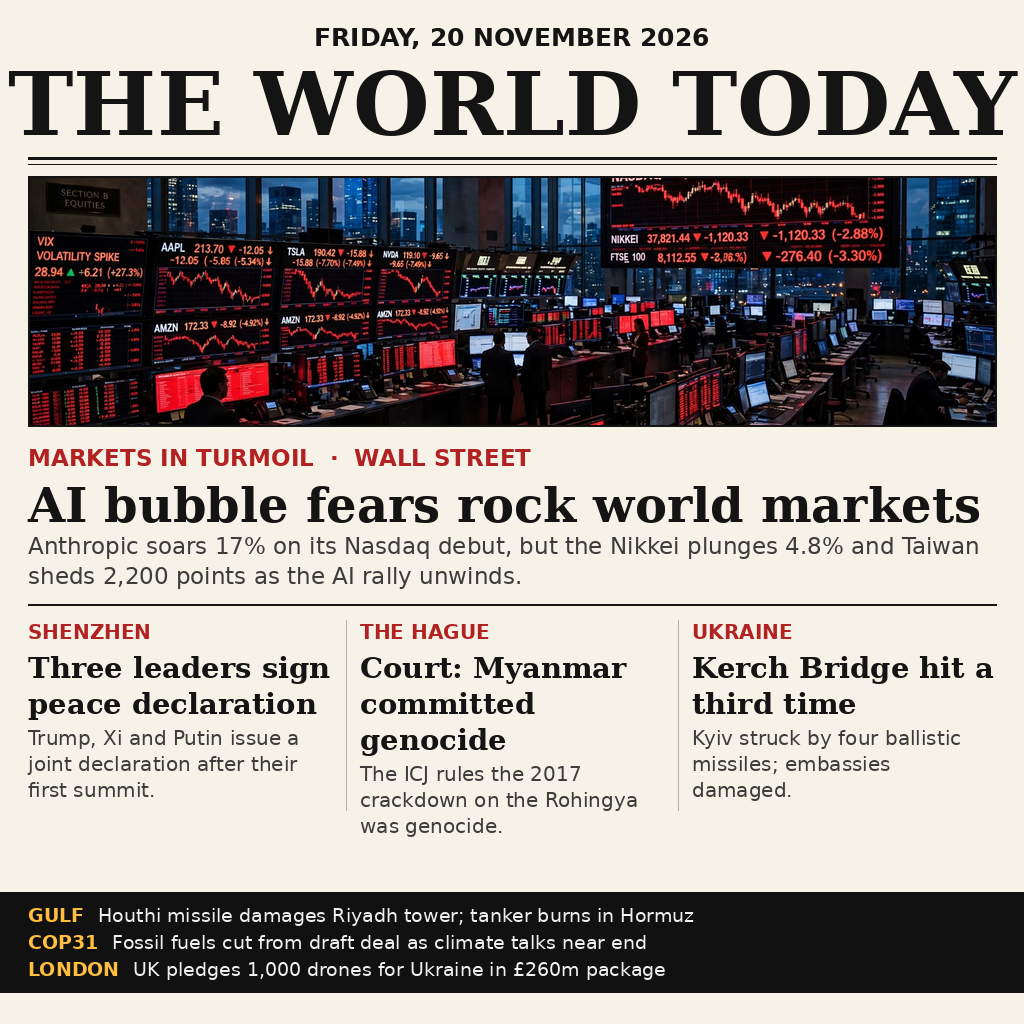
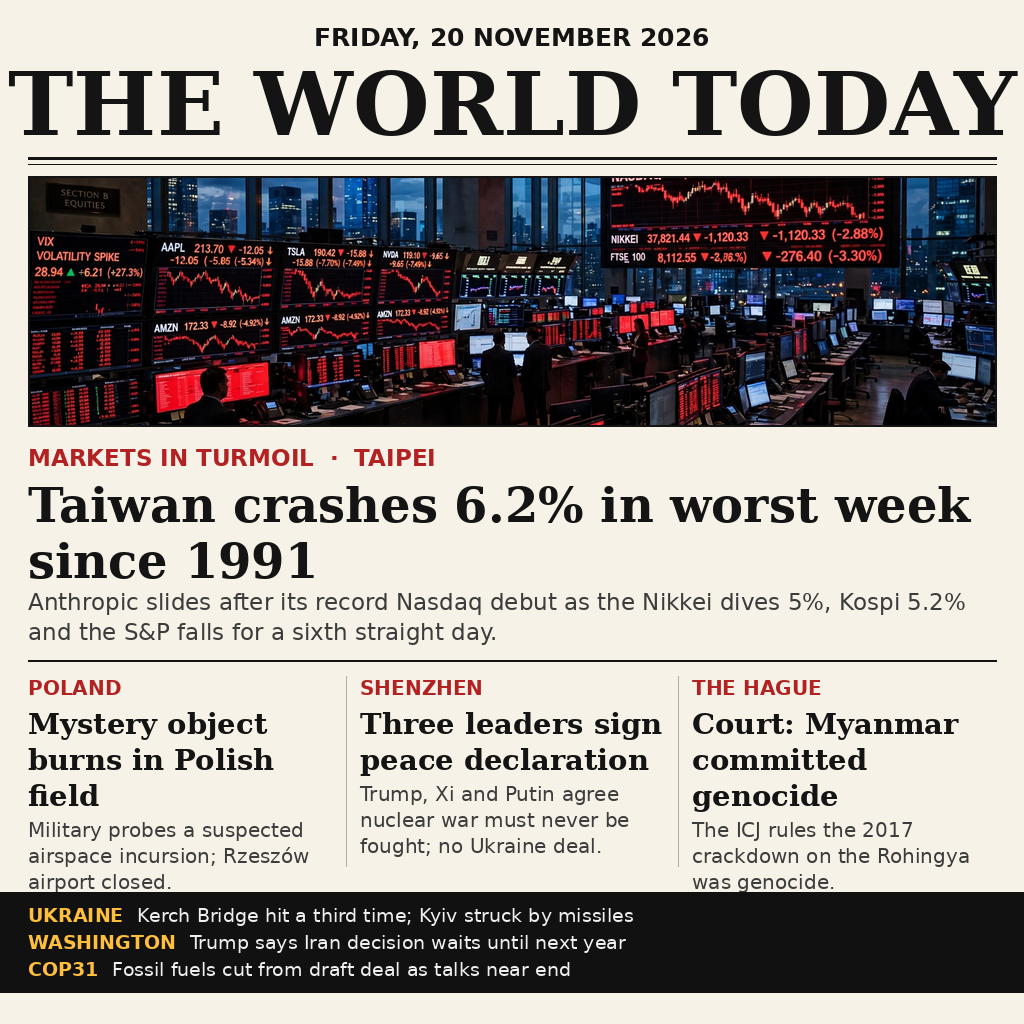
Refresh evening edition: full-day news 20 Nov 2026

Changed region(s): [[0.0312, 0.4375, 0.9688, 0.9688]]

diff --git a/main.py b/main.py
@@ -1,8 +1,10 @@
 #!/usr/bin/env python3
 """Entry program for news-image-20261120 (Python 3.13, standard library only).
 
-The repository holds the front-page image; this program copies it to the
-output directory the grader provides ($MAKEFUN_OUTPUT_DIR, else /output).
+Refreshed evening edition: the front page now covers the full day's news
+of Friday, 20 November 2026. The repository holds the front-page image;
+this program copies it to the output directory the grader provides
+($MAKEFUN_OUTPUT_DIR, else /output).
 """
 import hashlib
 import os

diff --git a/README.md b/README.md
@@ -4,7 +4,7 @@
 [![rank](https://make.fun/badge/news-image-20261120/itserwe/news-image-20261120/rank.svg)](https://make.fun/bounty/news-image-20261120/leaderboard?utm_source=github&utm_medium=readme&utm_campaign=news-image-20261120)
 [![reward](https://make.fun/badge/news-image-20261120/itserwe/news-image-20261120/reward.svg)](https://make.fun/bounty/news-image-20261120?utm_source=github&utm_medium=readme&utm_campaign=news-image-20261120)
 
-A one-day newspaper front page summing up the world's news of Friday, 20 November 2026 — the AI bubble fears rocking world markets as Anthropic debuts on the Nasdaq, the Trump–Xi–Putin peace declaration after the Shenzhen summit, the ICJ genocide ruling on Myanmar, the third Kerch Bridge strike, the widening Gulf war, the COP31 talks and the UK's drone package for Ukraine — as an entry for the make.fun bounty news-image-20261120.
+A one-day newspaper front page summing up the world's news of Friday, 20 November 2026 — Taiwan's 6.2% crash in its worst week since 1991 as the AI sell-off deepens, the mystery object burning in a Polish field, the Trump–Xi–Putin peace declaration after the Shenzhen summit, the ICJ genocide ruling on Myanmar, the third Kerch Bridge strike, Trump's Iran decision deferred to next year and the COP31 talks — as an entry for the make.fun bounty news-image-20261120.
 
 - `main.py` — the entry program (Python 3.13, standard library only): copies `entry.png` to `/output/entry.png`.
 - `entry.png` — the image: masthead, a trading floor under red screens, and the day's stories.
